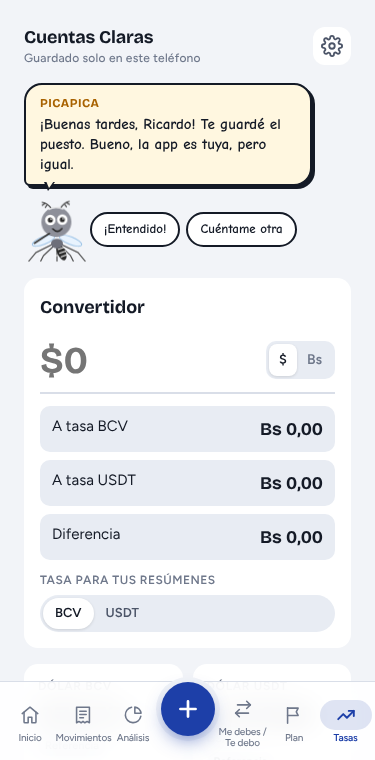
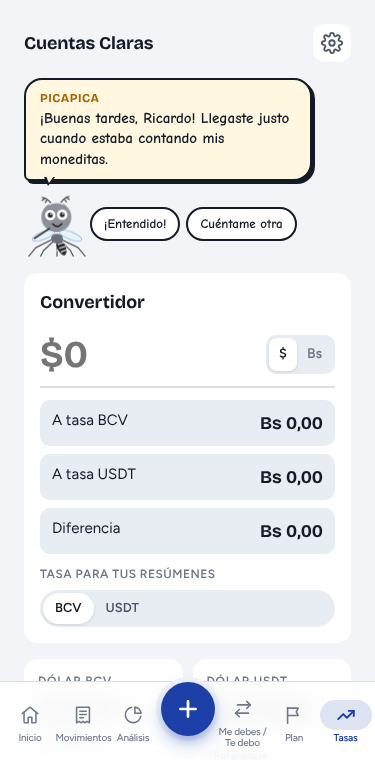
Actualiza la app (v40)
Claude-Session: https://claude.ai/code/session_016eEKr5AV81AkUUWj8yiqi4

diff --git a/app/index.html b/app/index.html
@@ -359,7 +359,7 @@ body.locked .app, body.locked nav.tabs, body.locked #sheetRoot, body.locked #onb
 
 <div class="app">
   <header class="top">
-    <div class="brand">Cuentas Claras<small id="saveMode"></small></div>
+    <div class="brand">Cuentas Claras</div>
     <div class="month" id="monthBox">
       <button id="prevM" aria-label="‹">‹</button>
       <span id="monthLbl" class="num"></span>
@@ -1259,7 +1259,6 @@ const TABS = [
 const PARENT = { balance: 'inicio', consejos: 'inicio', importar: 'movs', pagomovil: 'movs' };
 function render() {
   document.title = 'Cuentas Claras';
-  $('#saveMode').textContent = !S.loaded ? T('Cargando…', 'Loading…') : store.mode === 'db' ? T('Guardado en tu cuenta', 'Saved to your account') : T('Guardado solo en este teléfono', 'Saved on this phone only');
   $('#monthLbl').textContent = monthName(S.month);
   $('#prevM').setAttribute('aria-label', T('Mes anterior', 'Previous month')); $('#nextM').setAttribute('aria-label', T('Mes siguiente', 'Next month'));
   $('#monthBox').hidden = !['inicio', 'movs', 'consejos', 'balance', 'fin'].includes(S.tab) || (S.tab === 'fin' && FINSUB.t !== 'analisis');
@@ -1442,7 +1441,7 @@ function viewTasas() {
 // ---------- Sugerencias (solo versión de prueba) ----------
 // Se envían a un Google Form de Ricardo; él las ve en la hoja de respuestas.
 // Para conectarlo: pega aquí el id del formulario y los entry.N de cada pregunta (salen del enlace prellenado).
-const APP_VER = 'v39';
+const APP_VER = 'v40';
 const SUGG = { form: '', name: '', email: '', text: '', meta: '' };
 const TEST_BUILD = /github\.io$|^localhost$|^127\.0\.0\.1$/.test(location.hostname);
 const suggReady = () => !!(SUGG.form && SUGG.name && SUGG.email && SUGG.text);

diff --git a/app/sw.js b/app/sw.js
@@ -1,6 +1,6 @@
 // Cuentas Claras: guarda la app en el teléfono para que abra rápido y sin conexión.
 // Sube CACHE cada vez que publiques una versión nueva.
-const CACHE = 'cc-v39';
+const CACHE = 'cc-v40';
 const FONTS = 'cc-fonts'; // las letras de Google se guardan aparte y sobreviven a las versiones nuevas
 const PREF = 'cc-pref';   // aquí se recuerda la mascota elegida para el ícono
 const PETS = ['cerdito', 'gato', 'perro', 'guacamaya', 'caiman', 'tigre', 'aguila', 'mosca', 'zancudo'];
